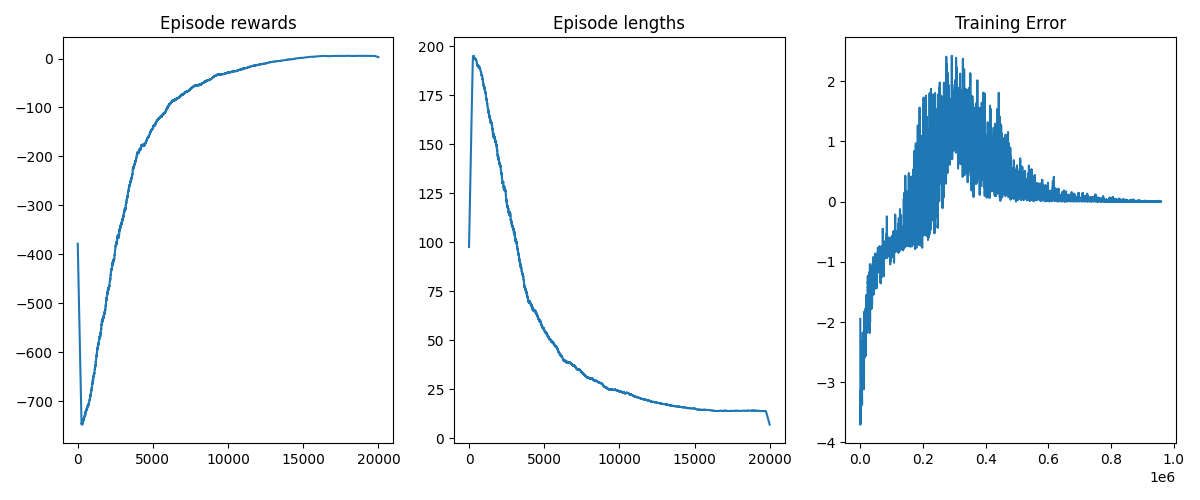
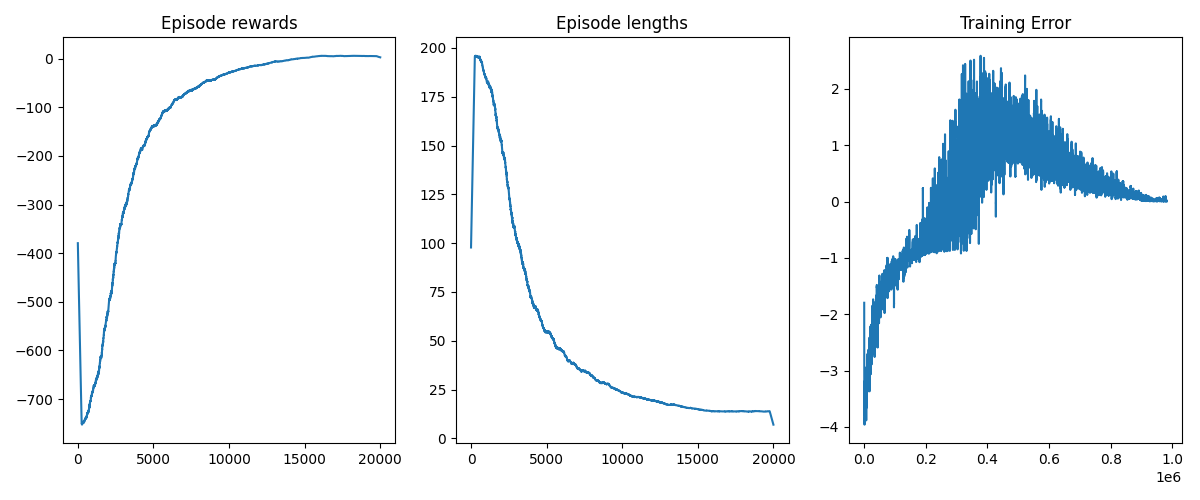
push aggiornamento

diff --git a/dqn_taxi_agent.py b/dqn_taxi_agent.py
@@ -49,7 +49,7 @@ class DQN(nn.Module):
 
 # --- Hyperparameters --------------------------------------------------------
 BATCH_SIZE   = 64
-GAMMA        = 0.985
+GAMMA        = 0.99
 EPS_START    = 1.0
 EPS_END      = 0.03
 NUM_EPISODES = 10000
@@ -71,7 +71,7 @@ memory      = ReplayBuffer(MEM_CAP)
 steps_done = 0
 episode_durations = []
 episode_returns   = []
-
+training_errors = []
 
 def select_action(state):
     global steps_done
@@ -101,6 +101,7 @@ def optimize_model():
         target = R + GAMMA * Q2 * (1 - D)
 
     loss = F.smooth_l1_loss(Q, target)
+    training_errors.append(loss.item())
     optimizer.zero_grad()
     loss.backward()
     optimizer.step()
@@ -174,6 +175,18 @@ if __name__ == "__main__":
     plt.savefig("plots/dqn_durations.png", dpi=200, bbox_inches="tight")
     plt.figure(2)
     plt.savefig("plots/dqn_returns.png", dpi=200, bbox_inches="tight")
+
+    plt.figure(figsize=(6,4))
+    plt.title("TD Error (Loss) over time")
+    plt.plot(training_errors, alpha=0.4, label="TD Error")
+    if len(training_errors) >= 100:
+        ma_td = [sum(training_errors[i-99:i+1])/100 for i in range(99, len(training_errors))]
+        plt.plot(range(99, len(training_errors)), ma_td, label="100-step MA")
+    plt.xlabel("Training steps")
+    plt.ylabel("TD-error (Smooth L1 Loss)")
+    plt.legend()
+    plt.tight_layout()
+    plt.savefig("plots/dqn_td_error.png", dpi=200, bbox_inches="tight")
     plt.show()
 
     # --- Quick test without rendering overhead ----------------------------

diff --git a/q_learning_taxi.py b/q_learning_taxi.py
@@ -102,7 +102,7 @@ def test_agent_visual(agent, n_episodes=3):
 
 if __name__ == "__main__":
     # qui definisci i valori dei tuoi hyperparametri
-    learning_rate = 0.1
+    learning_rate = 0.05
     n_episodes = 20_000
     start_epsilon = 1.0
     final_epsilon = 0.05
